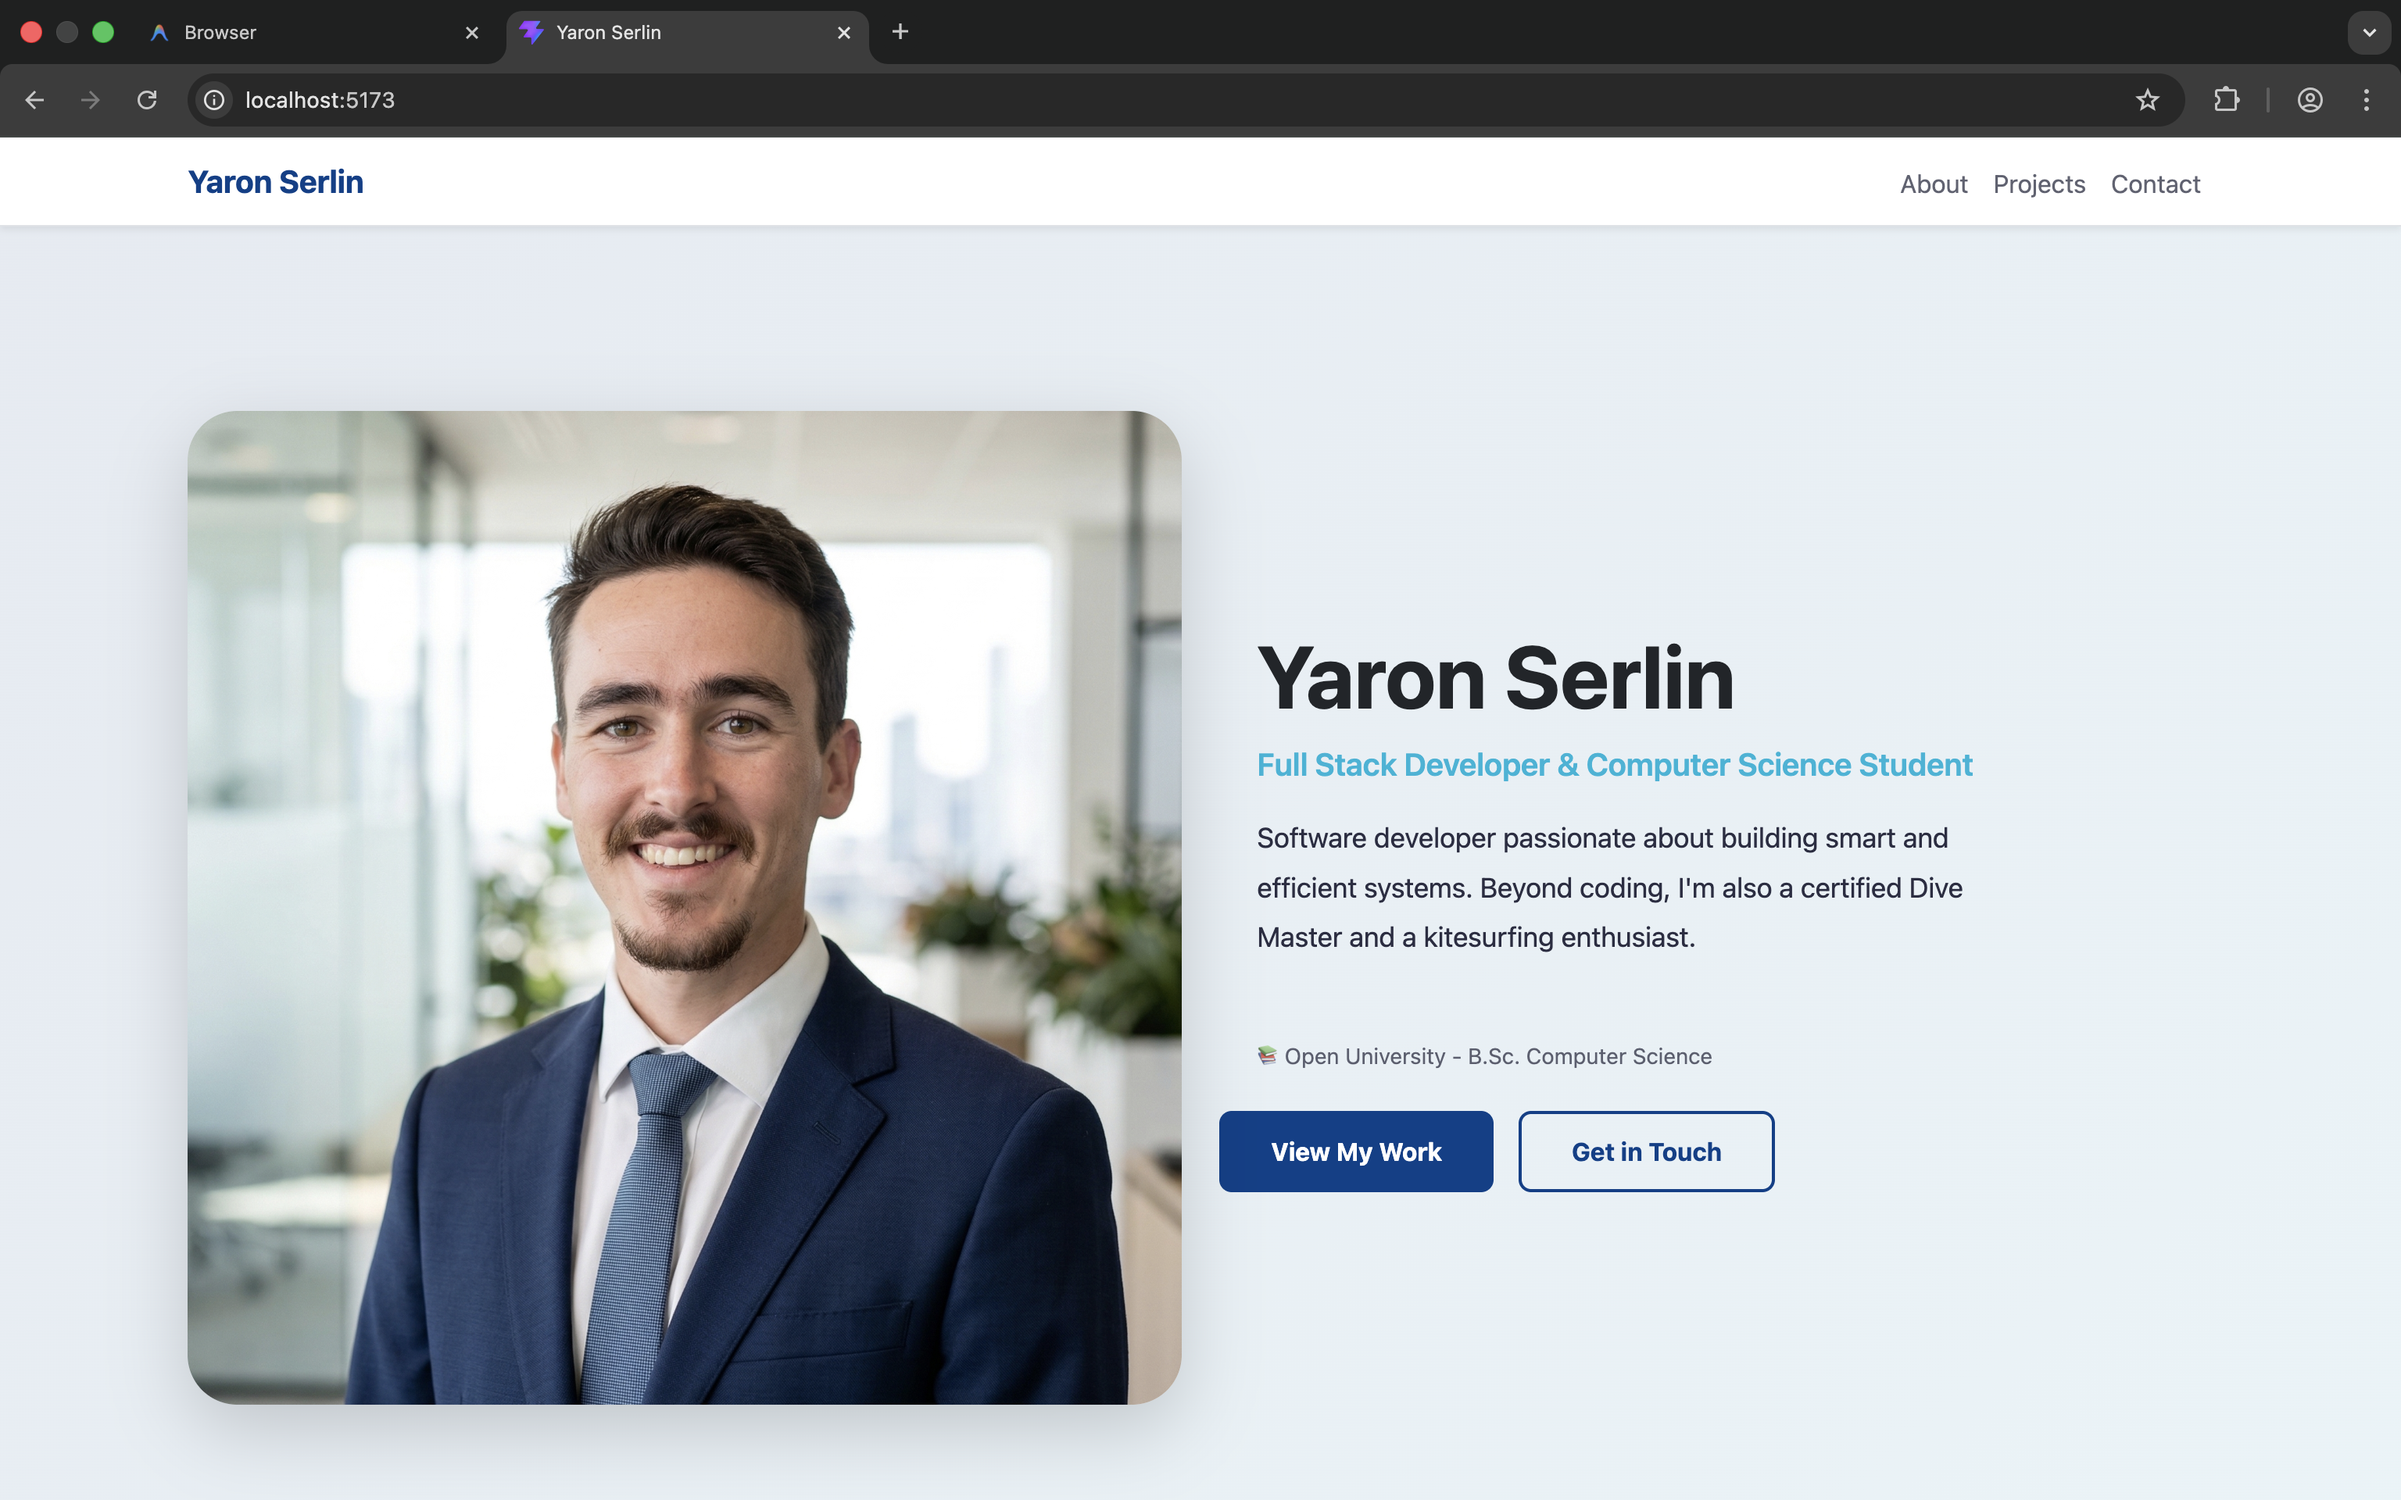
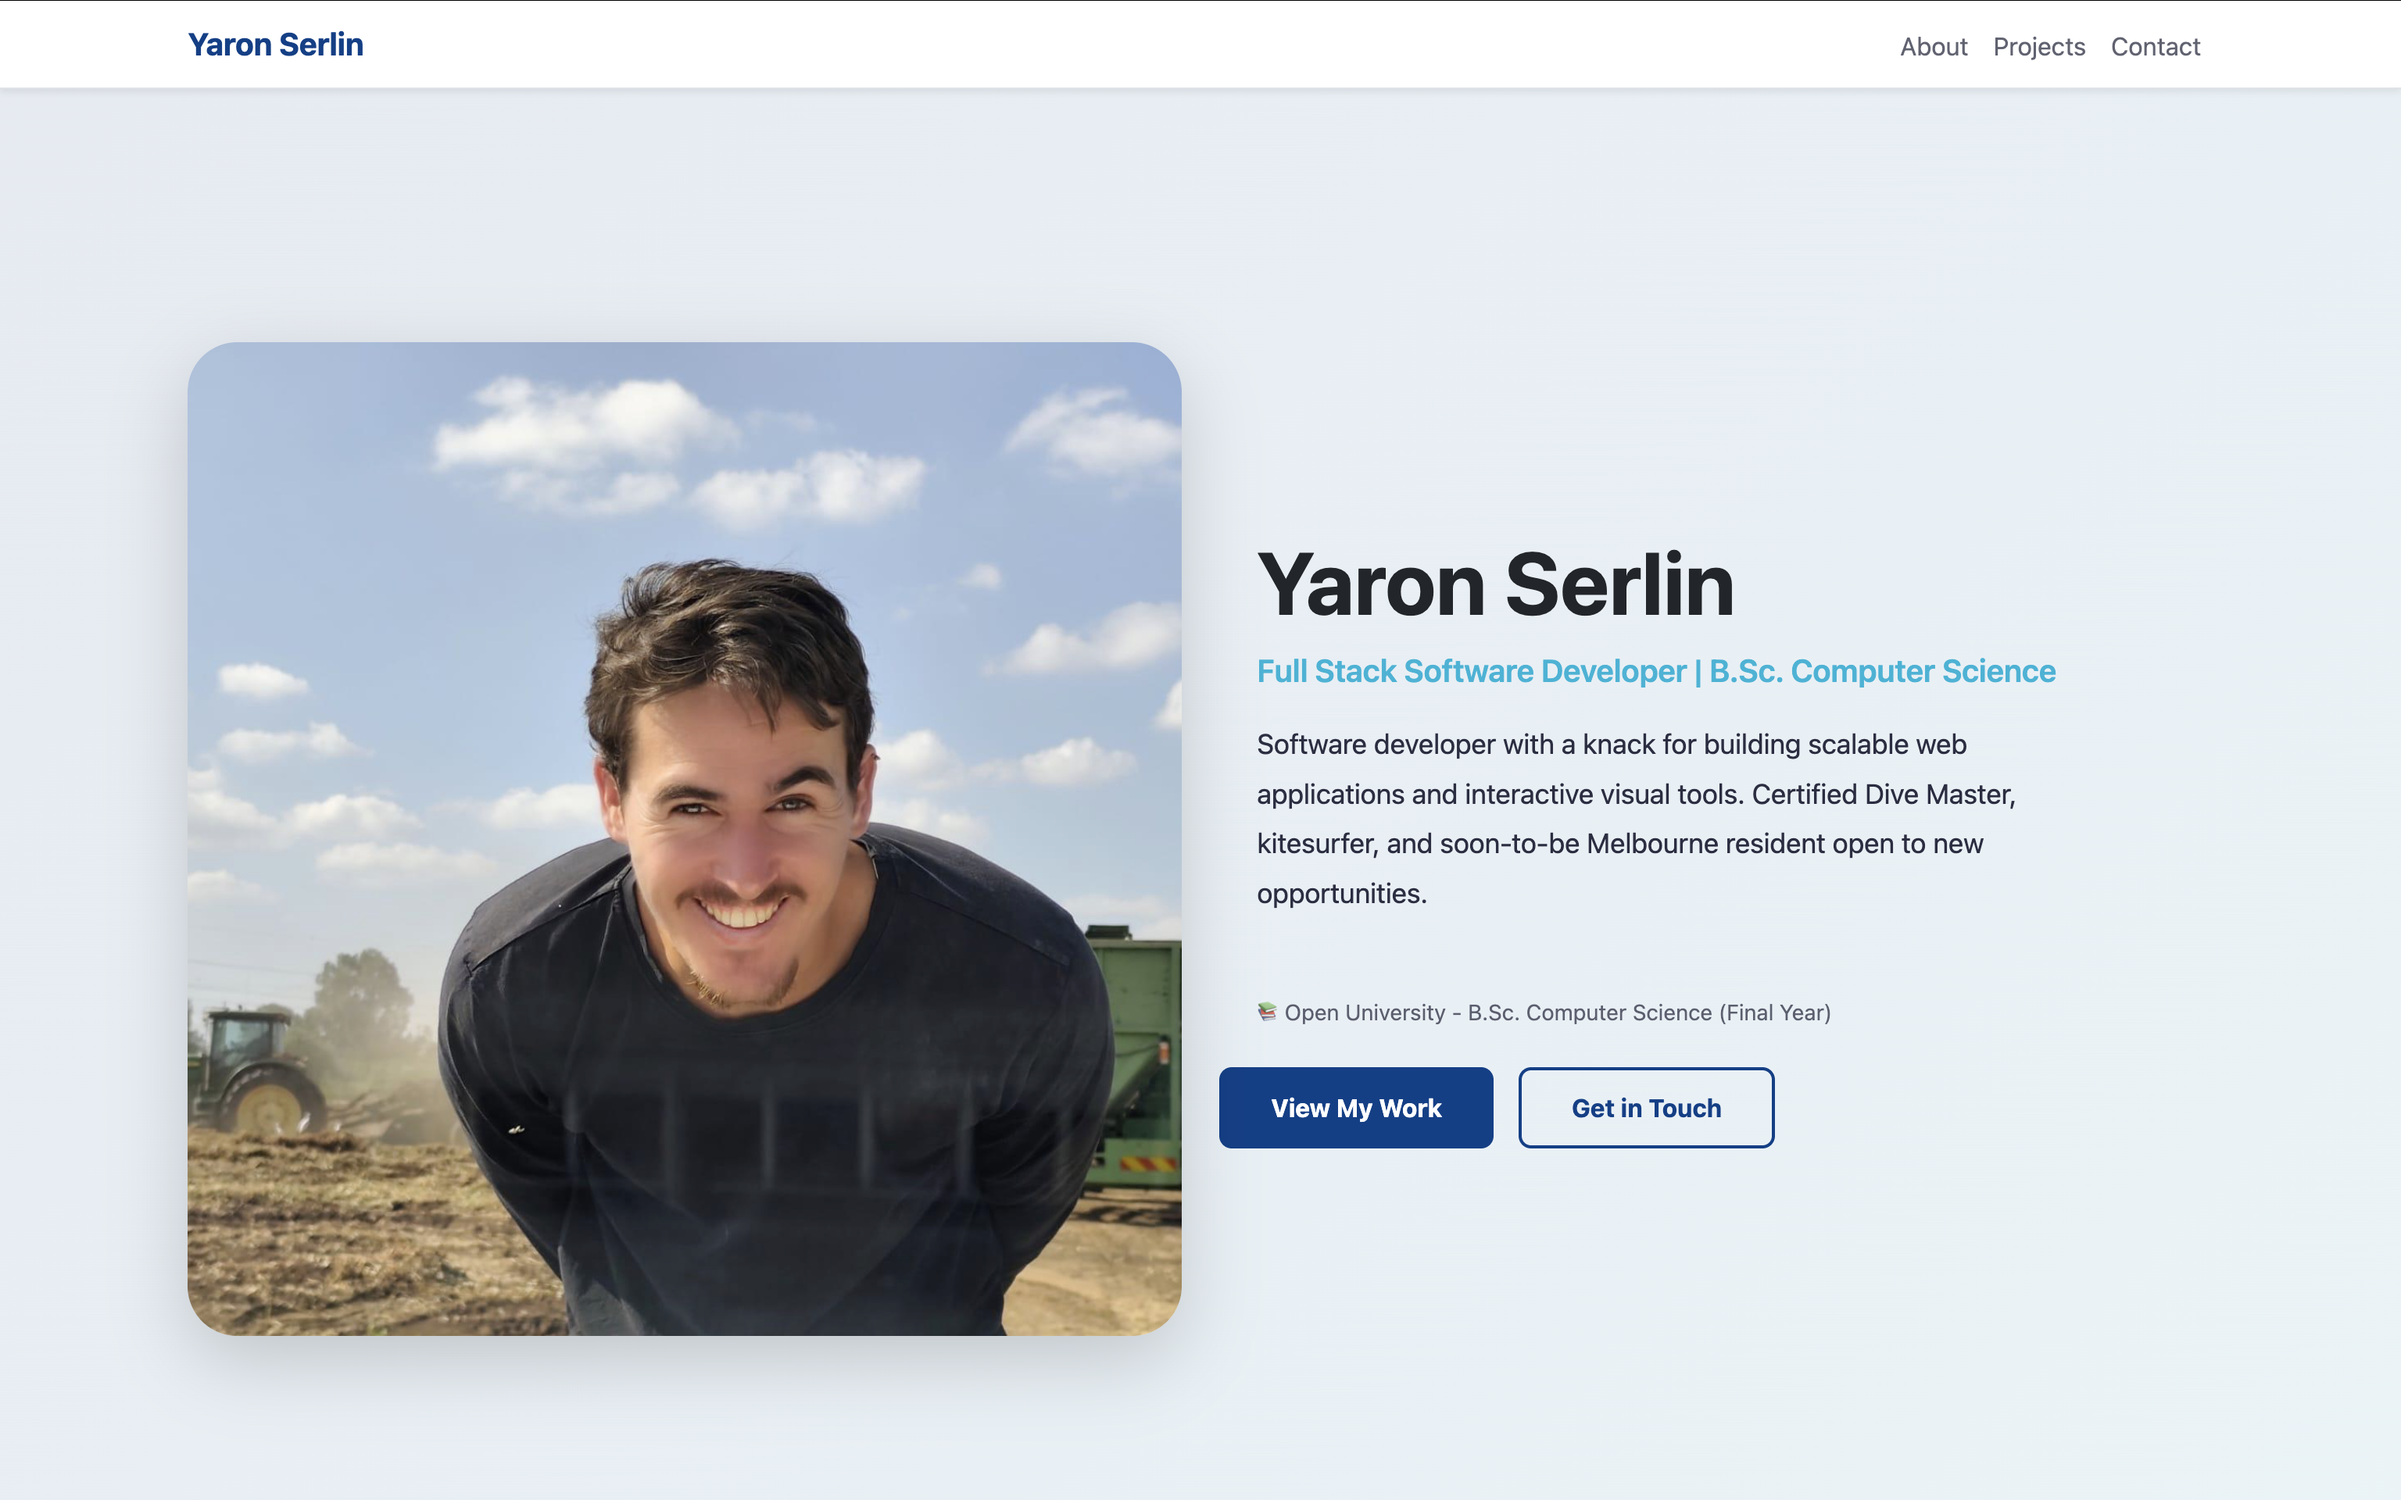
Delete unused asserts, and change the profile image

diff --git a/src/data/portfolioDetails.js b/src/data/portfolioDetails.js
@@ -2,7 +2,7 @@
  * PREVIEW: Static configuration database defining the foundational personal profile constants.
  */
 
-import profileImg from '../assets/profile.png';
+import profileImg from '../assets/profile.jpg';
 
 export const portfolioDb = {
     personalInfo: {
